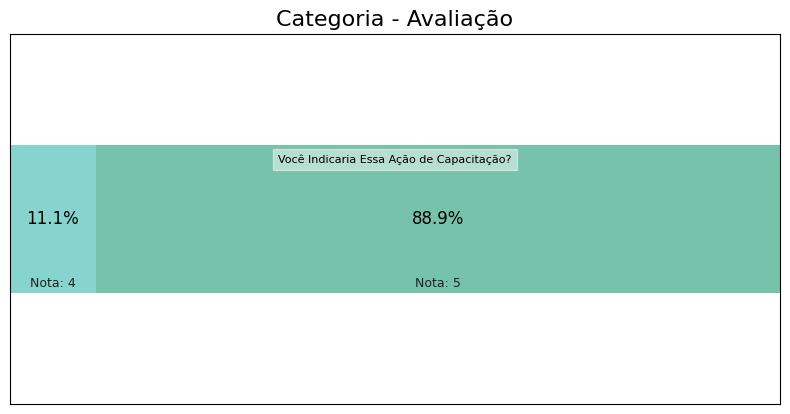
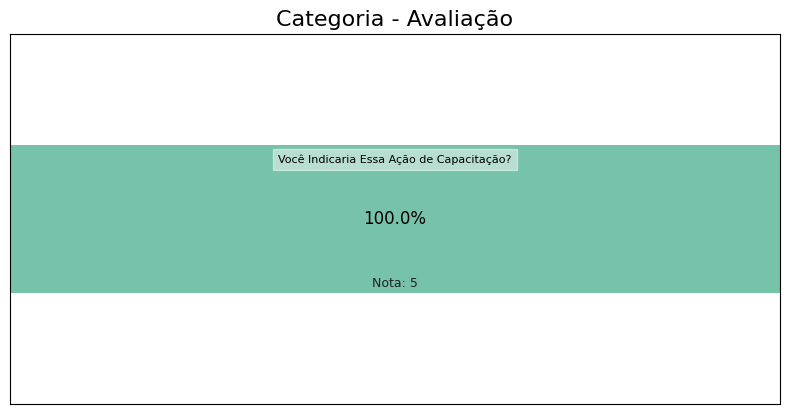
calculo do total de avaliacoes ajustado para retirar as avaliacoes nota 0

Changed region(s): [[0.0, 0.3478, 0.1215, 0.7246], [0.4557, 0.4928, 0.6076, 0.5507], [0.4557, 0.6667, 0.5772, 0.6957]]

diff --git a/pfc_app/views.py b/pfc_app/views.py
@@ -1674,8 +1674,10 @@ def gerar_relatorio(request, curso_id):
         percentual_baixas_tema = (avaliacoes_baixas_tema / total_avaliacoes_tema) * 100 if total_avaliacoes_tema > 0 else 0
         percentual_baixas_tema = round(percentual_baixas_tema, 2)
         
+        total_avaliacoes_zero = Avaliacao.objects.filter(subtema__tema_id=tema.id, nota='0').count()
+
         avaliacoes_altas_tema = Avaliacao.objects.filter(subtema__tema_id=tema.id, nota__in=['4', '5']).count()
-        percentual_altas_tema = (avaliacoes_altas_tema / total_avaliacoes_tema) * 100 if total_avaliacoes_tema > 0 else 0
+        percentual_altas_tema = (avaliacoes_altas_tema / (total_avaliacoes_tema-total_avaliacoes_zero)) * 100 if total_avaliacoes_tema > 0 else 0
         percentual_altas_tema = round(percentual_altas_tema, 2)
 
 
